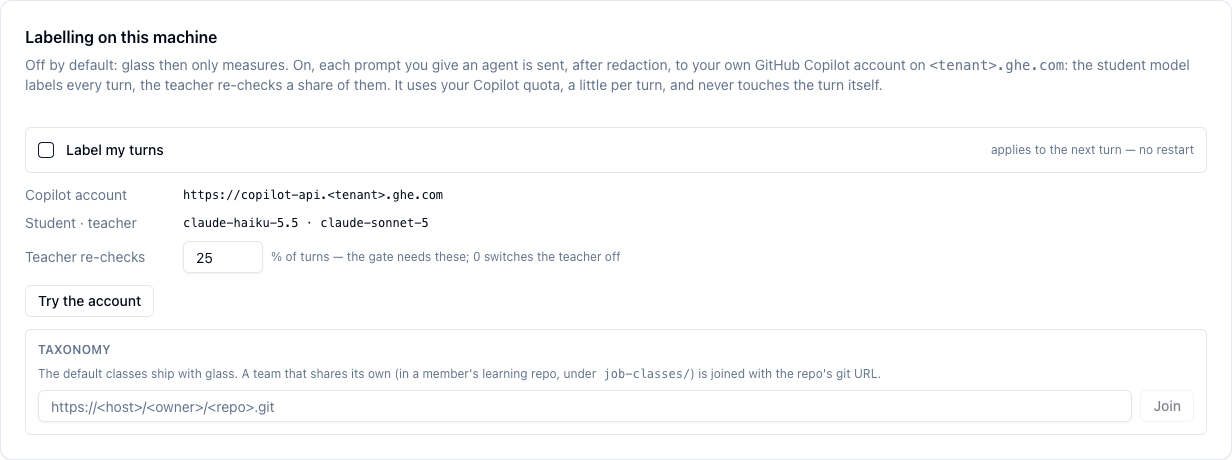
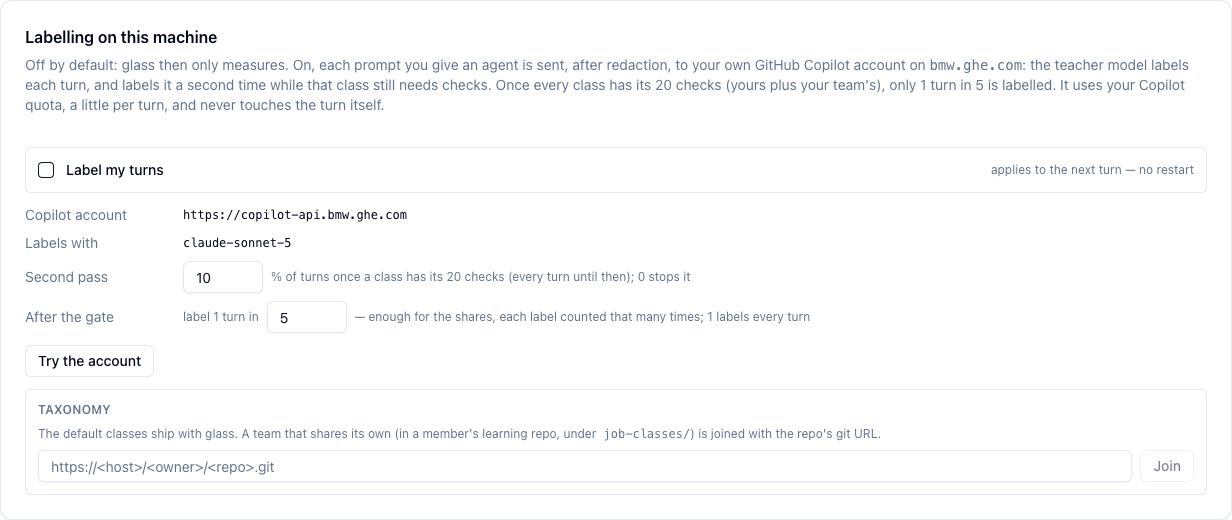
feat(job-classes): P6c/P6e in glass and the dashboard — Sonnet labels, sampling after the gate
glass (P6e):
- Live labels come from the teacher model (Sonnet), as in coding: student ==
  teacher, so glass's counts pool with coding's and the panels speak of
  consistency. The Haiku student is kept for `glass job-classes measure`.
- sampleUntilGate on (every turn of a class below 20 pooled checks is checked);
  reportSampleEvery (default 5) once every class has a verdict; second pass
  default 10 % (was 25 %).
- Settings card: "Labels with", "Second pass", "After the gate: label 1 turn in N",
  and "Publish my gate counts" (P6d); CLI status names the phases.
- Docs: labeller/second pass/gate wording across the job-class pages, the
  tutorial's settings table, and a new settings screenshot.

Dashboard: the Classes tab shows the sampling phase as a badge (collecting:
every turn / reporting: 1 turn in N) with the classes still collecting, and
By class says how many labels were sampled and counted for more turns.

Needs rapid-llm-proxy feat/job-classes-pooled-sampling (tagger sampling, the
weight column, `sampling` in GET /api/job-classes).

diff --git a/integrations/system-health-dashboard/glass-ui/job-classes.tsx b/integrations/system-health-dashboard/glass-ui/job-classes.tsx
@@ -8,10 +8,12 @@ import { Input } from '@/components/ui/input'
  * glass's job-class labelling, from the Classes tab: the daemon's
  * /api/job-classes/settings (lib/glass/job-classes.mjs).
  *
- * Off by default. On, the user's own Copilot account labels each human turn: the
- * student every turn, the teacher a share of them. The card says what leaves the
- * machine, lets the account be tried before anything is labelled, and binds a
- * team's taxonomy from its learning repo.
+ * Off by default. On, the user's own Copilot account labels each human turn with
+ * the teacher model, and checks it a second time while the class's gate still
+ * collects; once every class has a verdict, only 1 turn in N is labelled (P6e).
+ * The card says what leaves the machine, lets the account be tried before
+ * anything is labelled, binds a team's taxonomy from its learning repo, and
+ * publishes this machine's gate counts to it (P6).
  */
 
 interface JobClassConfig {
@@ -19,6 +21,7 @@ interface JobClassConfig {
   studentModel: string
   teacherModel: string
   teacherSamplePct: number
+  reportSampleEvery: number
   team: { url: string; dir: string } | null
 }
 interface JobClassView {
@@ -28,6 +31,7 @@ interface JobClassView {
   taxonomy: string
   shipped: string
 }
+type PublishResult = { tag: string; member: string; changed: boolean; committed: boolean; pushed: boolean }
 type TestResult = { ok: true; label: string; model: string; ms: number } | { ok: false; error: string }
 
 const call = async <T,>(method: string, route: string, body?: unknown): Promise<T> => {
@@ -48,18 +52,20 @@ export function JobClassSettings() {
   const [tested, setTested] = useState<TestResult | null>(null)
   const [teamUrl, setTeamUrl] = useState('')
   const [pct, setPct] = useState('')
+  const [every, setEvery] = useState('')
+  const [published, setPublished] = useState<PublishResult | null>(null)
 
   const load = useCallback(async () => {
     try {
       const v = await call<JobClassView>('GET', '/api/job-classes/settings')
-      setView(v); setPct(String(Math.round(v.config.teacherSamplePct * 100))); setErr('')
+      setView(v); setPct(String(Math.round(v.config.teacherSamplePct * 100))); setEvery(String(v.config.reportSampleEvery)); setErr('')
     } catch (e) { setErr(String((e as Error).message)) }
   }, [])
   useEffect(() => { void load() }, [load])
 
   const act = async (what: string, fn: () => Promise<JobClassView | void>) => {
     setBusy(what); setErr('')
-    try { const v = await fn(); if (v) { setView(v); setPct(String(Math.round(v.config.teacherSamplePct * 100))) } } catch (e) { setErr(String((e as Error).message)) } finally { setBusy('') }
+    try { const v = await fn(); if (v) { setView(v); setPct(String(Math.round(v.config.teacherSamplePct * 100))); setEvery(String(v.config.reportSampleEvery)) } } catch (e) { setErr(String((e as Error).message)) } finally { setBusy('') }
   }
   const patch = (p: Partial<JobClassConfig>) => act('save', () => call<JobClassView>('PATCH', '/api/job-classes/settings', p))
 
@@ -74,8 +80,9 @@ export function JobClassSettings() {
         <CardDescription>
           Off by default: glass then only measures. On, each prompt you give an agent is sent, after redaction, to
           your own GitHub Copilot account{view.host ? <> on <span className="font-mono">{view.host}</span></> : ''}:
-          the student model labels every turn, the teacher re-checks a share of them. It uses your Copilot quota, a
-          little per turn, and never touches the turn itself.
+          the teacher model labels each turn, and labels it a second time while that class still needs checks. Once
+          every class has its 20 checks (yours plus your team's), only 1 turn in {c.reportSampleEvery} is labelled.
+          It uses your Copilot quota, a little per turn, and never touches the turn itself.
         </CardDescription>
       </CardHeader>
       <CardContent className="space-y-3 text-sm">
@@ -89,14 +96,23 @@ export function JobClassSettings() {
         <div className="grid grid-cols-[150px_1fr] items-center gap-2">
           <span className="text-muted-foreground">Copilot account</span>
           <span className="font-mono text-xs">{view.copilotApi || 'none: gh is not logged in to a host with Copilot'}</span>
-          <span className="text-muted-foreground">Student · teacher</span>
-          <span className="font-mono text-xs">{c.studentModel} · {c.teacherModel}</span>
-          <span className="text-muted-foreground">Teacher re-checks</span>
+          <span className="text-muted-foreground">Labels with</span>
+          <span className="font-mono text-xs">{c.teacherModel}</span>
+          <span className="text-muted-foreground">Second pass</span>
           <span className="flex items-center gap-2">
             <Input className="h-8 w-20" inputMode="numeric" value={pct} onChange={(e) => setPct(e.target.value)} />
-            <span className="text-xs text-muted-foreground">% of turns — the gate needs these; 0 switches the teacher off</span>
+            <span className="text-xs text-muted-foreground">% of turns once a class has its 20 checks (every turn until then); 0 stops it</span>
             {Number(pct) / 100 !== c.teacherSamplePct && Number.isFinite(Number(pct)) && (
               <Button size="sm" variant="outline" disabled={busy !== ''} onClick={() => void patch({ teacherSamplePct: Number(pct) / 100 })}>Save</Button>
+            )}
+          </span>
+          <span className="text-muted-foreground">After the gate</span>
+          <span className="flex items-center gap-2">
+            <span className="text-xs text-muted-foreground">label 1 turn in</span>
+            <Input className="h-8 w-20" inputMode="numeric" value={every} onChange={(e) => setEvery(e.target.value)} data-testid="job-class-every" />
+            <span className="text-xs text-muted-foreground">— enough for the shares, each label counted that many times; 1 labels every turn</span>
+            {Number(every) !== c.reportSampleEvery && Number.isInteger(Number(every)) && Number(every) >= 1 && (
+              <Button size="sm" variant="outline" disabled={busy !== ''} onClick={() => void patch({ reportSampleEvery: Number(every) })}>Save</Button>
             )}
           </span>
         </div>
@@ -117,6 +133,16 @@ export function JobClassSettings() {
               <span>Your team's, from <span className="font-mono text-xs">{team.url}</span></span>
               <Button size="sm" variant="outline" disabled={busy !== ''} onClick={() => void act('pull', () => call<JobClassView>('POST', '/api/job-classes/team/pull', {}))}>Update</Button>
               <Button size="sm" variant="ghost" disabled={busy !== ''} onClick={() => void act('leave', () => call<JobClassView>('DELETE', '/api/job-classes/team', {}))}>Use the default</Button>
+              <Button size="sm" variant="outline" disabled={busy !== ''} data-testid="job-class-publish"
+                onClick={() => void act('publish', async () => setPublished(await call<PublishResult>('POST', '/api/job-classes/team/publish', { push: true })))}>
+                {busy === 'publish' ? 'Publishing…' : 'Publish my gate counts'}
+              </Button>
+              <p className="basis-full text-xs text-muted-foreground">
+                Shares, per class, how many of your turns were labelled, checked and agreed — never a prompt — as{' '}
+                <span className="font-mono">job-classes/gate/&lt;pseudonym&gt;.json</span> in the team's repo, so the Gate
+                panel can add the team's counts up. Needs write access to that repo.
+                {published && <> Last: {published.member}, {published.changed ? 'updated' : 'unchanged'}{published.pushed ? ', pushed' : ''}.</>}
+              </p>
             </div>
           ) : (
             <>

diff --git a/integrations/system-health-dashboard/src/components/job-classes/JobClassesTab.tsx b/integrations/system-health-dashboard/src/components/job-classes/JobClassesTab.tsx
@@ -60,6 +60,8 @@ interface RecentTurn {
 interface Summary {
   days: number
   byClass: ClassRow[]
+  /** Labels made in the reporting phase (P6e), each counted `report_sample_every` times. */
+  sampledLabels?: number
   agreement?: { sampled: number; agree: number | null }
   recent?: RecentTurn[]
   error?: string
@@ -85,6 +87,8 @@ interface TaxonomyEntry {
   projects: string[]
   tag: string | null
   error: string | null
+  /** P6: collecting (label every turn, check every turn of a class below its gate) or reporting (1 turn in `every`). */
+  sampling?: { phase: 'collecting' | 'reporting' | 'off'; every: number; collecting: string[]; unreadable?: boolean }
 }
 
 const fmt = (n: number) => (n >= 1e9 ? `${(n / 1e9).toFixed(1)}B` : n >= 1e6 ? `${(n / 1e6).toFixed(1)}M` : n >= 1e3 ? `${(n / 1e3).toFixed(1)}K` : String(n))
@@ -147,6 +151,7 @@ export function JobClassesTab({ proxyBase, hours, controls, measureCommand }: { 
   // teacher check is a second teacher pass. Same test as GateProgress.
   const selfCheck = !!tagger?.config?.studentProcess && tagger.config.studentProcess === tagger.config.teacherProcess
   const labeller = selfCheck ? 'the labeller' : 'the student'
+  const sampling = (tagger?.taxonomies ?? []).find(x => x.tag === taxonomy)?.sampling
 
   return (
     <div className="space-y-4">
@@ -202,6 +207,16 @@ export function JobClassesTab({ proxyBase, hours, controls, measureCommand }: { 
               {controls ? ' Switch on "Label my turns" below to start.' : ' Enable job_classes in the proxy config to start.'}
             </div>
           )}
+          {tagger?.enabled && sampling && sampling.phase !== 'off' && (
+            <div className="text-muted-foreground" data-testid="sampling-phase">
+              <Badge variant="outline" className="mr-2">{sampling.phase === 'reporting' ? `reporting: 1 turn in ${sampling.every}` : 'collecting: every turn'}</Badge>
+              {sampling.phase === 'reporting'
+                ? 'Every class has its 20 checks, so a sample of turns is labelled; each label counts for the turns it stands for.'
+                : sampling.unreadable
+                  ? "The team's gate could not be read, so the configured rates apply."
+                  : <>Every turn is labelled, and checked a second time while its class has fewer than 20 checks{sampling.collecting.length ? <> ({sampling.collecting.length} classes: {sampling.collecting.join(', ')})</> : ''}.</>}
+            </div>
+          )}
           <div className="text-muted-foreground">
             {selfCheck ? 'Consistency check' : 'Teacher check'}:{' '}
             {liveRate === null
@@ -230,6 +245,7 @@ export function JobClassesTab({ proxyBase, hours, controls, measureCommand }: { 
           <CardDescription>
             A class's tokens are every call of the turns labelled with it, tool loops included. "none" is a turn {labeller}{' '}
             could not place in any class.
+            {summary?.sampledLabels ? <> {summary.sampledLabels} of these labels were sampled after the gate, each counted for the turns it stands for.</> : null}
           </CardDescription>
         </CardHeader>
         <CardContent>

diff --git a/glass/overlay/docs/tutorial-job-classes.md b/glass/overlay/docs/tutorial-job-classes.md
@@ -17,17 +17,18 @@ glass ui
 Go to **Token Usage → Classes**. The first card, **Labelling on this machine**, starts off:
 glass sends nothing anywhere until you tick the box.
 
-![Labelling on this machine, switched off: the Copilot account, the student and teacher models, the teacher's share and the Try the account button](images/ui-job-classes-settings.png)
+![Labelling on this machine, switched off: the Copilot account, the labelling model, the second pass, the sample after the gate and the Try the account button](images/ui-job-classes-settings.png)
 
 | Field | What it means |
 |---|---|
 | **Copilot account** | Where the labels are asked for: your own Copilot account, on the host your `gh` login reaches. |
-| **Student · teacher** | The cheap model that labels every turn, and the strong one that re-checks some of them. |
-| **Teacher re-checks** | The share of turns the teacher checks too. The gate (step 5) is counted from these. |
+| **Labels with** | The teacher model that labels your turns. |
+| **Second pass** | The share of turns labelled a second time once a class has its 20 checks; until then every turn of the class is. The gate (step 5) is counted from these. |
+| **After the gate** | Once every class has its 20 checks, only 1 turn in this many is labelled; each label counts for that many turns. |
 
 ## 2. Try the account, then switch labelling on
 
-Click **Try the account**. glass sends one made-up prompt and shows the class the student
+Click **Try the account**. glass sends one made-up prompt and shows the class the teacher
 gave it. If your Copilot plan does not offer the models, it says so here. Nothing else is sent.
 
 Then tick **Label my turns**. It applies to the next turn of every agent you start with
@@ -104,13 +105,15 @@ since you switched labelling on.
 ## 5. Watch the gate
 
 The **Gate** card says whether each class's labels can be trusted yet. A class passes when the
-teacher agrees with at least 90 % of the student's labels for it, over at least 20 turns the
-teacher checked. At first every class is still collecting:
+second pass agrees with at least 90 % of its labels, over at least 20 turns that were
+checked. At first every class is still collecting:
 
 ![The gate: every class at 0 / 20 checked turns, collecting](images/ui-job-classes-gate.png)
 
-With the teacher checking 25 % of turns, a class needs about 80 turns of its own kind
-before it can pass. Raise **Teacher re-checks** to get there sooner. That uses more quota.
+Every turn of a class is checked until that class has its 20 checks, so a class needs 20
+turns of its own kind — fewer when your team publishes its counts too (step 6). Then the
+second pass falls back to **Second pass** (10 %), and once every class has passed or failed,
+only 1 turn in 5 is labelled.
 
 A label changes nothing about your turn. glass only counts it and shows it.
 

diff --git a/glass/overlay/docs/job-classes-overview.md b/glass/overlay/docs/job-classes-overview.md
@@ -104,13 +104,13 @@ Steps 2 and 3 run on a machine with coding installed. The team shares the result
 
 | Word | Meaning |
 |---|---|
-| **student** | The cheap, fast model (`claude-haiku-5.5`) that labels every turn. |
-| **teacher** | The strong model (`claude-sonnet-5`). It re-labels a share of turns, and its labels count as right. |
-| **gate** | The bar a class clears before its labels count as trusted: 90 % of the student's labels confirmed, over at least 20 checked turns. |
+| **teacher** | The strong model (`claude-sonnet-5`). It labels your turns, and labels some a second time to check itself. |
+| **student** | A cheap, fast model (`claude-haiku-5.5`) scored by the measurement; it did not reach the gate, so it labels nothing live. |
+| **gate** | The bar a class clears before its labels count as trusted: 90 % agreement between the two passes, over at least 20 checked turns — then 1 turn in 5 is enough. |
 | **reference set** | Your past prompts that the teacher labelled twice, giving the same class both times. |
 
 </figure>
-<p class="overview-takeaway">The student labels, the teacher checks, the gate says when to trust a label.</p>
+<p class="overview-takeaway">The teacher labels and checks itself; the gate says when to trust a label.</p>
 </section>
 
 <section class="overview-slide overview-essential" id="slide-4" aria-labelledby="gjc-on" markdown="1">
@@ -239,15 +239,16 @@ since you switched labelling on.
 
 ## The gate: can the label be trusted? {#gjc-gate}
 
-For each class, the gate asks: **of the turns the student put in this class,
-how many did the teacher put there too?**
+For each class, the gate asks: **of the turns labelled with this class and
+checked a second time, how many did the second pass put there too?**
 
-- A class **passes** at 90 % or more, over at least 20 turns the teacher checked.
+- A class **passes** at 90 % or more, over at least 20 checked turns.
 - Below 90 % it is **below the gate**: its test needs sharpening.
 - With fewer than 20 checks it is still **collecting**.
 
-With the teacher checking 25 % of turns, a class needs about 80 turns of its own
-kind to pass. Raise **Teacher re-checks** to get there sooner. That uses more quota.
+Every turn of a class is checked until it has 20 checks, so a class needs about 20
+turns of its own kind — fewer when teammates publish their counts. Then 10 % are
+checked, and once every class has a verdict, 1 turn in 5 is labelled.
 
 </div>
 <figure class="overview-figure" markdown="1">

diff --git a/glass/overlay/docs/_tiers/job-classes.deep.md b/glass/overlay/docs/_tiers/job-classes.deep.md
@@ -18,17 +18,23 @@ stored in glass's token DB (table `turn_job_class`), beside the turn's token row
 Not labelled: tool-loop calls (only the first call of a turn is), sub-agent calls, the
 agents' own utility calls (titles, summaries) and headless `claude -p` runs.
 
-## Student, teacher and the gate
+## Labeller, second pass and the gate
 
-| | Model | When |
+Live labels come from the **teacher** model, `claude-sonnet-5`: no cheap student model
+reached the gate in the measurement, so the label you read is the reliable one. The
+student (`claude-haiku-5.5`) is only scored by `glass job-classes measure`.
+
+| Phase | Labelled | Second pass (the teacher again) |
 |---|---|---|
-| **student** | `claude-haiku-5.5` | every turn |
-| **teacher** | `claude-sonnet-5` | a share of turns (25 % by default; 0 switches it off) |
+| **collecting** — some class has fewer than 20 checks | every turn | every turn of a class still below 20 checks; 10 % of the others |
+| **reporting** — every class has its 20 checks | 1 turn in 5 (*After the gate*), each label counted 5 times | 10 % (*Second pass*), as a drift check |
 
-The **gate** is per class: of the turns the student put in a class, the share the teacher
-put there too (its precision). A class passes at 90 % over at least 20 teacher-checked
-turns, counted over every label of one taxonomy version. The Classes tab's **Gate** panel
-shows where each class stands. Nothing acts on a label yet: they are counted and shown.
+The **gate** is per class: of a class's labels that were checked a second time, the share
+the second pass agreed with. A class passes at 90 % over at least 20 checked turns,
+counted over every label of one taxonomy version. The Classes tab's **Gate** panel shows
+where each class stands, on this machine and — with a team's classes — across the team
+(members publish their counts with `glass job-classes publish`). Nothing acts on a label
+yet: they are counted and shown.
 
 A free Copilot plan may not offer these models; **Try the account** then says so.
 

diff --git a/.planning/shared-job-classes.md b/.planning/shared-job-classes.md
@@ -972,6 +972,24 @@ pseudonym (no prompt text), a republish changed nothing, and the panel summed th
 machine + one teammate (fix 22 checked, 91%, passes) while naming a teammate on other
 models as not added.
 
+**P6c + P6e built 2026-11-23** (rapid-llm-proxy `feat/job-classes-pooled-sampling`,
+coding `feat/job-classes-sonnet-sampling`): the tagger reads the team pool for the
+taxonomy it labels under (`pooledChecks`, 5-min cache, this member's own file replaced
+by its live counts) — `sample_until_gate: true` checks every turn of a class below 20
+pooled checks (on for coding in `llm-routing.yaml`); `report_sample_every: N` labels 1 turn
+in N once every class has 20, stored as `turn_job_class.weight`, which the summary
+multiplies into turns and tokens (`sampledLabels`). An unreadable pool keeps the
+configured rates and labels every turn. `GET /api/job-classes` reports each taxonomy's
+`sampling` phase; the Classes tab shows it as a badge. glass: the live labeller is the
+teacher (Sonnet), `sampleUntilGate` on, `reportSampleEvery` 5 (setting "After the gate"),
+second pass 10 % (was 25 %); `measure` still scores the Haiku student; the settings card
+gains the sample field and **Publish my gate counts** (P6d). Verified: proxy 700/700
+node tests (4 new: check until the gate, base rate after, unreadable pool, reporting
+weight 5 in the summary), glass 182/182 on the extract, and a scratch glass showing
+"collecting: every turn" with the 10 classes still below 20, then "reporting: 1 turn in
+5" once a teammate's counts covered every class, and the Publish button republishing
+"unchanged".
+
 Rough size: P6a and P6b are a few days together. P6c is small once P6b reads
 the pool. Nothing here changes the labeller or the taxonomy.
 

diff --git a/glass/overlay/docs/job-classes.md b/glass/overlay/docs/job-classes.md
@@ -18,9 +18,9 @@ labelled in the background with your own Copilot account. Opt-in, off by default
     model answers all of it. Job classes sort your prompts into kinds of job, so you can see
     what your work consists of and, later, which kinds a cheaper model does just as well.
 
-    A cheap **student** model labels every turn; a strong **teacher** model re-checks a share
-    of them. A class's labels are trusted once the teacher agrees with at least 90 % of them,
-    over at least 20 checked turns (the **gate**).
+    The strong **teacher** model labels your turns and checks some of them a second time. A
+    class's labels are trusted once the second pass agrees with at least 90 % of them, over
+    at least 20 checked turns (the **gate**). After that, a sample of 1 turn in 5 is enough.
 
     ## Switch it on
 
@@ -73,7 +73,7 @@ labelled in the background with your own Copilot account. Opt-in, off by default
 
     | | glass alone | needs coding |
     |---|---|---|
-    | Label your turns (student + teacher, your Copilot account) | ✅ | |
+    | Label your turns (the teacher model, your Copilot account) | ✅ | |
     | Measure your past prompts; tree, map, gate | ✅ | |
     | Join and update a team's classes | ✅ | |
     | Pool the gate with your team (`glass job-classes publish`) | ✅ | |

diff --git a/glass/overlay/docs/overview.md b/glass/overlay/docs/overview.md
@@ -355,8 +355,9 @@ Some of what you ask an agent is hard: find out why something broke. Much of it 
 routine: commit and push, is it finished, rerun the tests. One strong model answers all of it.
 
 Switch on **Token Usage → Classes** and glass labels every turn: fix, build, ship, status,
-explain, and so on. A cheap **student** model of **your own Copilot account** labels each
-turn, and a strong **teacher** re-checks a share of them. Prompts are redacted first.
+explain, and so on. The strong **teacher** model of **your own Copilot account** labels
+each turn and checks some a second time; once every class is trusted, it labels 1 turn in
+5. Prompts are redacted first.
 
 `glass job-classes measure` labels your past prompts as well, so the tree fills in at once.
 
